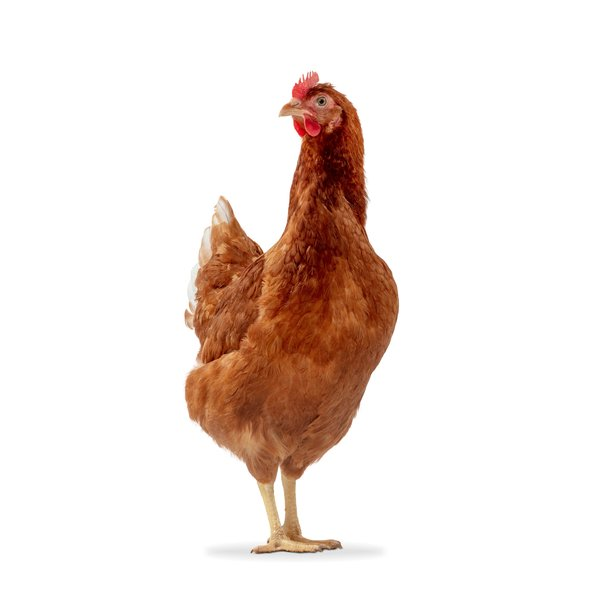
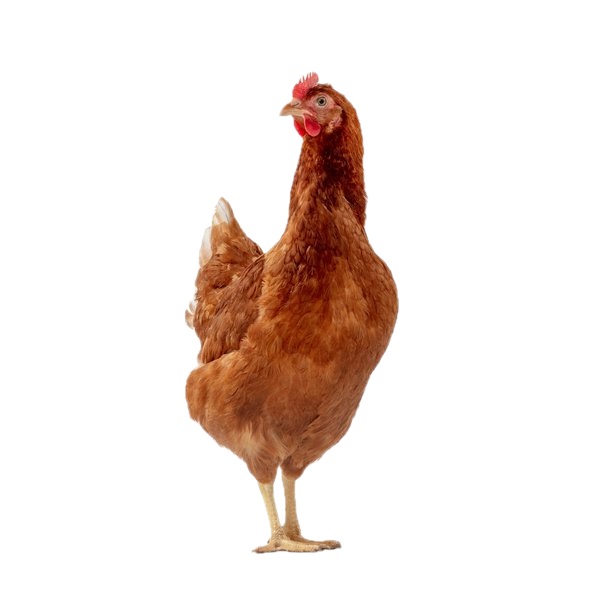
21st april  - restyled to have more of a nicer theme  - added dev notes  - uploaded two peck images  - fix graph to not show things if no value

diff --git a/app/about/page.tsx b/app/about/page.tsx
@@ -1,70 +1,46 @@
-"use client"
+"use client";
 
-import { useState } from "react"
-import Link from "next/link"
-import Image from "next/image"
-import { ArrowLeft } from "lucide-react"
-import { Button } from "@/components/ui/button"
-import { motion } from "framer-motion"
+import { useState } from "react";
+import Link from "next/link";
+import Image from "next/image";
+import { ArrowLeft } from "lucide-react";
+import { Button } from "@/components/ui/button";
+import { motion } from "framer-motion";
 
 interface ChickenProfile {
-  id: number
-  name: string
-  breed: string
-  age: string
-  favoriteFood: string
-  personality: string
-  funFact: string
-  eggColor: string
-  avgEggWeight: number
-  eggsPerWeek: number
-  image: string
+  id: number;
+  name: string;
+  breed: string;
+  funFact: string;
+  image: string;
 }
 
 const chickens: ChickenProfile[] = [
   {
     id: 1,
-    name: "Henrietta",
-    breed: "Rhode Island Red",
-    age: "2 years",
-    favoriteFood: "Mealworms",
-    personality: "Bossy but lovable",
-    funFact: "Can recognize her own name",
-    eggColor: "Brown",
-    avgEggWeight: 65,
-    eggsPerWeek: 5,
-    image: "/images/chicken1.png",
+    name: "Two Peck 1",
+    breed: "ISA Brown",
+    funFact: "Chilling",
+    image: "/images/two-peck-chilling.png",
   },
   {
     id: 2,
-    name: "Gertrude",
-    breed: "Plymouth Rock",
-    age: "3 years",
-    favoriteFood: "Sunflower seeds",
-    personality: "Curious and friendly",
-    funFact: "Loves to be held and petted",
-    eggColor: "Light brown",
-    avgEggWeight: 58,
-    eggsPerWeek: 4,
-    image: "/images/chicken2.png",
+    name: "Two Peck 2",
+    breed: "ISA Brown",
+    funFact: "Catches bugs like a pro",
+    image: "/images/two-peck-coding.png",
   },
   {
     id: 3,
-    name: "Mabel",
-    breed: "Leghorn",
-    age: "1.5 years",
-    favoriteFood: "Corn",
-    personality: "Energetic and vocal",
-    funFact: "First to greet visitors at the coop",
-    eggColor: "White",
-    avgEggWeight: 62,
-    eggsPerWeek: 6,
-    image: "/images/chicken3.png",
+    name: "Two Peck 3",
+    breed: "ISA Brown",
+    funFact: "Two Peck Bath Water",
+    image: "/images/two-peck-bath.png",
   },
-]
+];
 
 function ChickenCard({ chicken }: { chicken: ChickenProfile }) {
-  const [isFlipped, setIsFlipped] = useState(false)
+  const [isFlipped, setIsFlipped] = useState(false);
 
   return (
     <div className="w-full max-w-xs mx-auto perspective">
@@ -80,17 +56,9 @@ function ChickenCard({ chicken }: { chicken: ChickenProfile }) {
           className="absolute w-full h-full backface-hidden rounded-xl overflow-hidden border-4 border-yellow-200 bg-gradient-to-b from-sky-100 to-green-100"
           style={{ backfaceVisibility: "hidden" }}
         >
-          <div className="h-1/2 bg-sky-200 flex items-center justify-center p-4">
-            <div className="relative w-32 h-32">
-              <Image src={chicken.image || "/placeholder.svg"} alt={chicken.name} fill className="object-contain" />
-            </div>
-          </div>
-          <div className="h-1/2 bg-gradient-to-b from-green-100 to-green-200 p-4 flex flex-col items-center justify-center">
+          <div className="absolute inset-0 bg-gradient-to-b from-green-100 to-green-200 p-4 flex flex-col items-center justify-center">
             <h3 className="text-xl font-bold mb-1">{chicken.name}</h3>
             <p className="text-sm text-gray-600 mb-3">{chicken.breed}</p>
-            <div className="w-full bg-yellow-100 rounded-lg p-3 text-center">
-              <p className="text-sm font-medium">Click to meet {chicken.name}!</p>
-            </div>
           </div>
           <div className="absolute bottom-0 left-0 right-0 h-8 bg-green-300 z-10"></div>
           <div className="absolute bottom-0 left-0 right-0 h-6 bg-green-400 z-20"></div>
@@ -103,43 +71,25 @@ function ChickenCard({ chicken }: { chicken: ChickenProfile }) {
           style={{ backfaceVisibility: "hidden", transform: "rotateY(180deg)" }}
         >
           <h3 className="text-xl font-bold text-center mb-3">{chicken.name}</h3>
-          <div className="space-y-2 text-sm">
-            <div className="flex justify-between">
-              <span className="font-medium">Age:</span>
-              <span>{chicken.age}</span>
-            </div>
-            <div className="flex justify-between">
-              <span className="font-medium">Favorite Food:</span>
-              <span>{chicken.favoriteFood}</span>
-            </div>
-            <div className="flex justify-between">
-              <span className="font-medium">Personality:</span>
-              <span>{chicken.personality}</span>
-            </div>
-            <div className="flex justify-between">
-              <span className="font-medium">Egg Color:</span>
-              <span>{chicken.eggColor}</span>
-            </div>
-            <div className="flex justify-between">
-              <span className="font-medium">Avg Egg Weight:</span>
-              <span>{chicken.avgEggWeight}g</span>
-            </div>
-            <div className="flex justify-between">
-              <span className="font-medium">Eggs Per Week:</span>
-              <span>{chicken.eggsPerWeek}</span>
-            </div>
+          <div className="space-y-2 text-sm"></div>
+          <div className="relative w-48 h-60 flex items-center justify-center mx-auto">
+            <Image
+              src={chicken.image || "/placeholder.svg"}
+              alt={chicken.name}
+              fill
+              className="object-contain"
+            />
           </div>
-          <div className="mt-4 p-3 bg-yellow-100 rounded-lg">
-            <p className="text-sm italic">"{chicken.funFact}"</p>
+          <div className="mt-4 mx-auto w-[220px] p-3 bg-egg-gold rounded-lg text-center">
+            <p className="text-sm italic text-egg-brown">"{chicken.funFact}"</p>
           </div>
-          <div className="mt-4 text-center text-xs text-gray-500">Click to flip back</div>
           <div className="absolute bottom-0 left-0 right-0 h-8 bg-green-300 z-10"></div>
           <div className="absolute bottom-0 left-0 right-0 h-6 bg-green-400 z-20"></div>
           <div className="absolute bottom-0 left-0 right-0 h-4 bg-green-500 z-30"></div>
         </div>
       </motion.div>
     </div>
-  )
+  );
 }
 
 export default function About() {
@@ -155,7 +105,6 @@ export default function About() {
 
         <div className="text-center mb-8">
           <h1 className="text-3xl font-bold mb-2">Meet the Makers</h1>
-          <p className="text-gray-600">The feathered friends behind our eggs</p>
         </div>
 
         <div className="relative">
@@ -174,16 +123,10 @@ export default function About() {
         </div>
 
         <div className="mt-12 text-center">
-          <h2 className="text-2xl font-bold mb-4">Our Coop</h2>
+          <h2 className="text-2xl font-bold mb-4">the gang</h2>
           <div className="max-w-2xl mx-auto bg-white p-6 rounded-xl shadow-md">
-            <p className="mb-4">
-              Our chickens live in a spacious, custom-built coop with plenty of room to roam and explore. They enjoy
-              organic feed, fresh vegetables, and lots of sunshine.
-            </p>
-            <p>
-              Each of our feathered friends has their own personality and egg-laying style, contributing to the variety
-              of eggs you see in our collection.
-            </p>
+            <p className="mb-4">I have 3 chickens!!</p>
+            <p>more to come 🫣?!</p>
           </div>
         </div>
       </div>
@@ -196,5 +139,5 @@ export default function About() {
         </div>
       </div>
     </div>
-  )
+  );
 }

diff --git a/app/page.tsx b/app/page.tsx
@@ -6,23 +6,28 @@ import { Button } from "@/components/ui/button"
 export default function Home() {
   return (
     <div className="flex flex-col min-h-screen">
-      <header className="border-b bg-white">
+      <header className="border-b bg-egg-sky py-8">
         <div className="container mx-auto px-4 py-4 flex items-center justify-between">
           <div className="flex items-center gap-3">
-            <Image src="/images/logo.png" alt="TwoPeck's Eggs Logo" width={60} height={60} className="object-contain" />
-            <h1 className="text-3xl font-medium">TwoPeck's Eggs</h1>
+            <Image src="/images/logo.png" alt="TwoPeck's Eggs Logo" width={150} height={150} className="object-contain" />
+            <h1 className="text-4xl  text-egg-cream">TwoPeck's Eggs</h1>
           </div>
-          <Button asChild className="bg-orange-400 hover:bg-orange-500">
-            <Link href="/about">meet the makers</Link>
-          </Button>
+          <div className="flex gap-2">
+            <Button asChild className="bg-green-500 hover:bg-green-600">
+              <Link href="/about">meet the makers</Link>
+            </Button>
+            <Button asChild className="bg-purple-500 hover:bg-purple-600">
+              <Link href="/dev-notes">dev notes</Link>
+            </Button>
+          </div>
         </div>
       </header>
 
-      <main className="flex-1 container mx-auto px-4 py-6 bg-gray-50">
+      <main className="flex-1 container mx-auto px-4 py-6 bg-egg-gold">
         <div className="mb-6 flex justify-between items-center">
           <h2 className="text-xl font-medium">Recent Egg Collection</h2>
-          <Button asChild variant="outline">
-            <Link href="/analytics">View Analytics</Link>
+          <Button asChild className="bg-orange-400 hover:bg-orange-500">
+            <Link href="/analytics">view analytics</Link>
           </Button>
         </div>
 

diff --git a/app/dev-notes/page.tsx b/app/dev-notes/page.tsx
@@ -1,0 +1,55 @@
+import { FC } from "react";
+import Image from "next/image";
+import Link from "next/link";
+import { Button } from "@/components/ui/button";
+import fs from "fs";
+import path from "path";
+
+export async function generateMetadata() {
+  return {
+    title: "Dev Notes | TwoPeck's Eggs",
+  };
+}
+
+const DevNotesPage: FC = async () => {
+  const notesPath = path.join(process.cwd(), "dev-notes.md");
+  const fileContent = fs.readFileSync(notesPath, "utf8");
+
+  const lines = fileContent.split("\n").filter((line) => line.trim() !== "");
+
+  return (
+    <div className="flex flex-col min-h-screen">
+      <header className="border-b bg-egg-sky py-8">
+        <div className="container mx-auto px-4 py-4 flex items-center justify-between">
+          <div className="flex items-center gap-3">
+            <Image
+              src="/images/logo.png"
+              alt="TwoPeck's Eggs Logo"
+              width={150}
+              height={150}
+              className="object-contain"
+            />
+            <h1 className="text-4xl text-egg-cream">TwoPeck's Eggs</h1>
+          </div>
+          <Button asChild className="bg-green-500 hover:bg-green-600">
+            <Link href="/">home</Link>
+          </Button>
+        </div>
+      </header>
+
+      <main className="flex-1 container mx-auto px-4 py-6 bg-egg-gold">
+        <div className="mb-6">
+          <h2 className="text-2xl font-medium mb-4">Dev Notes</h2>
+
+          <div className="bg-egg-cream p-6 rounded-lg shadow">
+            <pre className="whitespace-pre-wrap text-sm font-mono text-egg-brown">
+              <code>{fileContent}</code>
+            </pre>
+          </div>
+        </div>
+      </main>
+    </div>
+  );
+};
+
+export default DevNotesPage;

diff --git a/app/analytics/page.tsx b/app/analytics/page.tsx
@@ -140,7 +140,7 @@ export default function Analytics() {
               <ResponsiveContainer width="100%" height="100%">
                 <PieChart>
                   <Pie
-                    data={weightDistributionData}
+                    data={weightDistributionData.filter((entry) => entry.value > 0)}
                     cx="50%"
                     cy="50%"
                     labelLine={true}
@@ -171,7 +171,7 @@ export default function Analytics() {
             <ResponsiveContainer width="100%" height="100%">
               <PieChart>
                 <Pie
-                  data={eggTypeData}
+                  data={eggTypeData.filter((entry) => entry.value > 0)}
                   cx="50%"
                   cy="50%"
                   labelLine={true}

diff --git a/components/egg-timeline.tsx b/components/egg-timeline.tsx
@@ -92,7 +92,7 @@ export function EggTimeline() {
         {lastSevenDays.map((day) => (
           <div key={day.date} className="rounded-lg overflow-hidden">
             <div className="bg-egg-blue py-2 px-4">
-              <span className="font-medium">{format(new Date(day.date), "EEEE do MMMM")}</span>
+              <span className="font-medium text-egg-cream ">{format(new Date(day.date), "EEEE do MMMM")}</span>
             </div>
             <div
               className="bg-egg-cream p-4 relative min-h-[120px] cursor-pointer"

diff --git a/dev-notes.md b/dev-notes.md
@@ -1,0 +1,48 @@
+Purpose: just to show off my chicken and have a cool way to track how many eggs I've been getting
+
+
+-----------------------
+
+18th may - used v0 to bash out the basics of the website - vibe coding haha
+
+what was included
+- add and edit egg 
+    - if no eggs are recorded no chicken
+- gallery of chickens
+    - a lot of unneeded fields so i removed  alot
+
+things you can do now
+ - manually tweak the colour of the egg in the json haha, so you can have purple eggs appear
+
+learning stuff
+- learning to use React
+- installed why-did-you-render 
+    - helps to detect unnecessary React component rerenders
+    - haven't used it too indepth rn
+- install ColorZilla on chrome to help pick out colours
+
+fun ideas
+ - accessorise the chickens
+ - have random chickens appear
+ - raining eggs
+ - calendar view - more history avaliable
+ - heatmap
+ - create a miniblog on the devprocess ( basically what this should become)
+ - mini games
+ - add an associaton with the chickens - hard to tell who laid the egg tho so not too fesable
+ - add quail eggs soon - check up in a few month
+    - probably let people name them and have a cute little gallery going on
+ - music and sound
+ - weather and daylight hour sync to see if that has an effect
+ - colour customisation - probably just a few presets in the future
+
+ how will i update it? 
+ - manually edit the json and commit ? lmao
+ - oooh notion intergration seems interesting to look into
+-----------------------
+
+ 21st april
+ - restyled to have more of a nicer theme
+ - added dev notes
+ - uploaded two peck images 
+ - fix graph to not show things if no value
